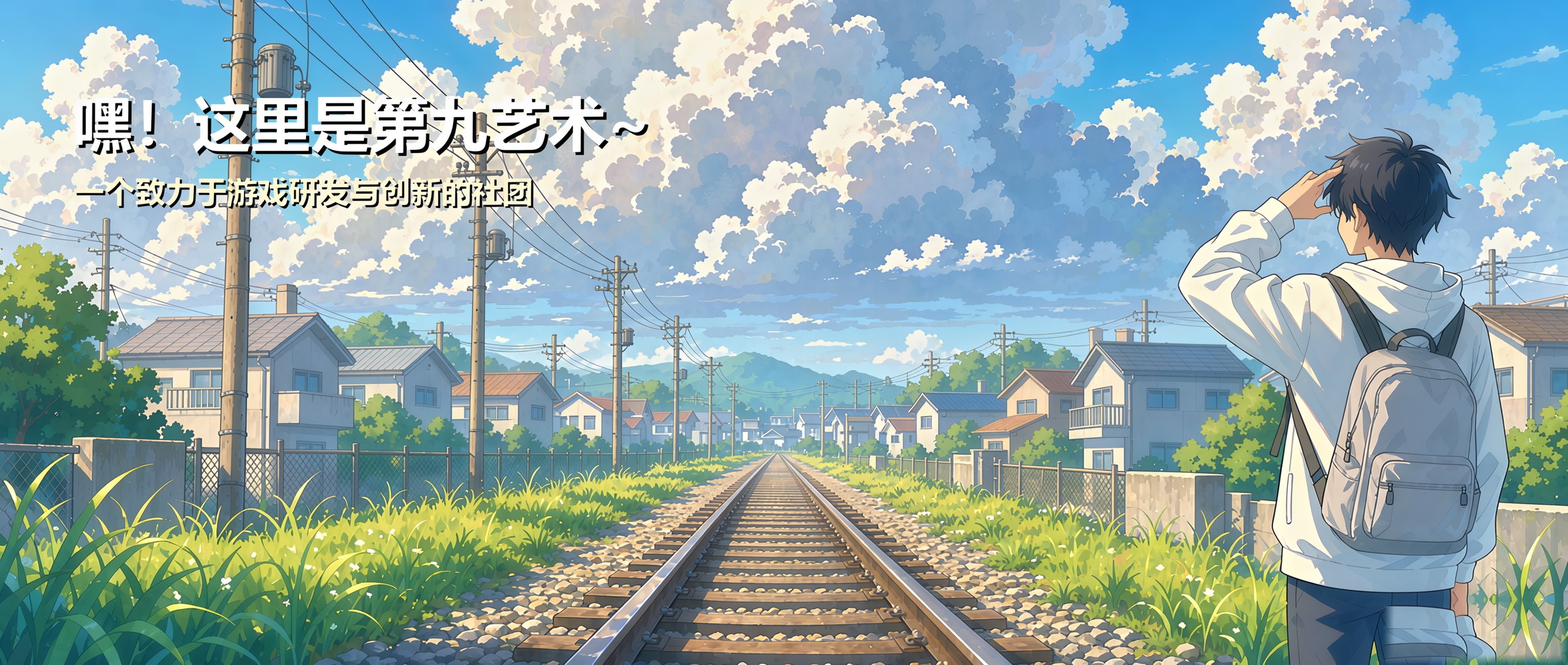
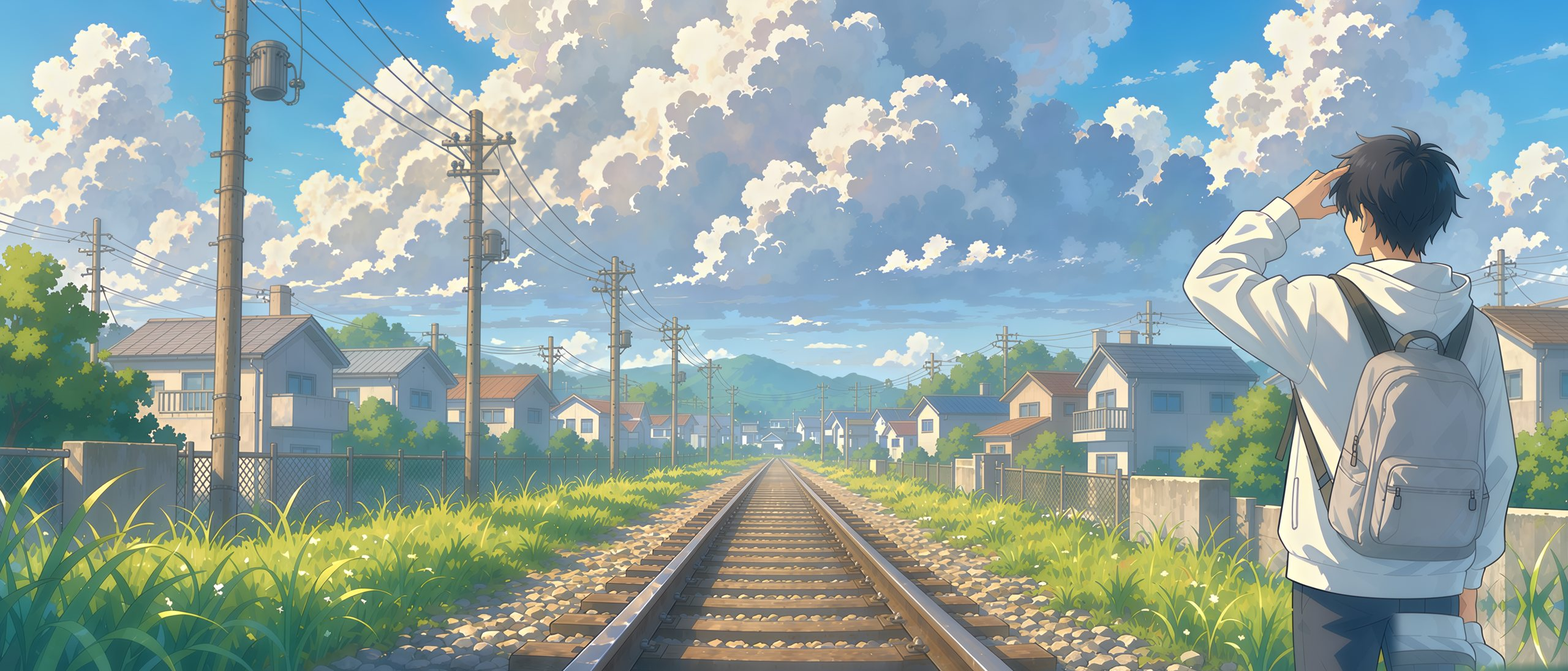
Hero copy: HTML title/sub instead of baked type, unify day/night type
- 移除覆盖文字「游戏不止于生活，而是另一种可能」
- 「嘿！这里是第九艺术~」「一个致力于游戏研发与创新的社团」改为页面渲染的覆盖文案，
  两张海报自带的文字已擦除
- 日/夜共用一套字形（粗斜体标题 + 细边框副标题），只换配色、描边、光晕与承载层
- 移动端保留标题（缩字号），补日间列表承载层与晨雾差分

diff --git a/index.html b/index.html
@@ -185,42 +185,111 @@
     position: absolute; inset: 0; width: 100%; height: 100%;
     object-fit: cover; z-index: 0;
   }
-  /* 横幅文案排版：海报本身已有标题与副标题，此处只补"四项特色 + 一句主张" */
+  /* 横幅文案：标题 / 副标题 / 四项特色全部由页面渲染（海报本身已无文字），
+     字形只有一套，日间与夜间只换配色与光晕 */
   .banner-copy { position: absolute; inset: 0; z-index: 2; pointer-events: none; }
+  .banner-copy .bc-head { position: absolute; left: 4.8%; top: 9%; max-width: 78%; }
+  .banner-copy .bc-title {
+    font-size: clamp(26px, 5.4vw, 92px);
+    font-weight: 800; font-style: italic; line-height: 1.02;
+    letter-spacing: .01em; white-space: nowrap;
+    color: #F5F8FF; -webkit-text-stroke: .9px rgba(246,250,255,.55);
+    text-shadow:
+      0 2px 2px rgba(9,18,36,.5),
+      0 6px 20px rgba(10,24,52,.55),
+      0 0 36px rgba(86,146,226,.45),
+      0 0 76px rgba(58,110,190,.28);
+  }
+  .banner-copy .bc-sub {
+    display: inline-flex; align-items: center;
+    margin-top: clamp(7px, 1.1vw, 16px);
+    padding: clamp(4px, .55vw, 8px) clamp(11px, 1.1vw, 18px);
+    border: 1px solid rgba(226,238,255,.5);
+    background: rgba(12,26,50,.22);
+    -webkit-backdrop-filter: blur(2px); backdrop-filter: blur(2px);
+    font-size: clamp(10px, 1.12vw, 17px);
+    letter-spacing: .28em; text-indent: .28em;
+    color: rgba(242,247,255,.96);
+    text-shadow: 0 1px 3px rgba(8,18,38,.85), 0 0 10px rgba(10,26,52,.6);
+  }
   .banner-copy .bc-feats {
     position: absolute; left: 4.8%; top: 40%;
-    list-style: none; margin: 0; padding: 0;
-    display: flex; flex-direction: column; gap: clamp(10px, 1.5vw, 20px);
+    list-style: none; margin: 0 0 0 -10px; padding: 16px 44px 16px 10px;
+    border-radius: 16px;
+    /* 特色列表落在中景（树、房子）上，两侧主题各给一层极淡的承载雾，保证文字有底 */
+    background: radial-gradient(120% 120% at 0% 50%,
+      rgba(6,12,22,.62) 0%, rgba(6,12,22,.30) 46%, rgba(6,12,22,0) 78%);
+    display: flex; flex-direction: column; gap: clamp(10px, 1.4vw, 20px);
   }
   .banner-copy .bc-feats li { display: flex; align-items: center; gap: 12px; }
   .banner-copy .bc-ico {
-    width: clamp(26px, 2.6vw, 36px); height: clamp(26px, 2.6vw, 36px);
+    width: clamp(26px, 2.6vw, 38px); height: clamp(26px, 2.6vw, 38px);
     border: 1.5px solid rgba(255,255,255,.8); border-radius: 8px;
     display: flex; align-items: center; justify-content: center;
     background: rgba(30,60,110,.3); flex: none;
   }
   .banner-copy .bc-feats b {
-    display: block; font-size: clamp(12px, 1.25vw, 16px); font-weight: 700; color: #fff;
+    display: block; font-size: clamp(12.5px, 1.3vw, 18px); font-weight: 700; color: #fff;
     text-shadow: 0 1px 3px rgba(15,35,75,.95), 0 0 8px rgba(15,35,75,.9), 0 0 20px rgba(15,35,75,.75);
   }
   .banner-copy .bc-feats i {
     display: block; margin-top: 2px; font-style: normal;
-    font-size: clamp(10px, .95vw, 12px); color: rgba(255,255,255,.92);
+    font-size: clamp(10.5px, 1vw, 13.5px); color: rgba(255,255,255,.9);
     text-shadow: 0 1px 3px rgba(15,35,75,.95), 0 0 8px rgba(15,35,75,.85), 0 0 18px rgba(15,35,75,.7);
   }
-  .banner-copy .bc-slogan {
-    position: absolute; left: 48%; top: 25%;
-    font-size: clamp(13px, 1.5vw, 21px); font-weight: 600; font-style: italic;
-    color: #fff; line-height: 1.55; letter-spacing: .06em;
-    text-shadow: 0 0 4px rgba(25,45,90,.95), 0 2px 8px rgba(25,45,90,.9), 0 0 20px rgba(25,45,90,.7);
+  /* —— 日间差分：亮底海报换深蓝字＋白描边光晕，边框、图标、箭头一起反色 —— */
+  body[data-theme="day"] .carousel::after {
+    background: linear-gradient(180deg, rgba(255,255,255,.06) 0%, transparent 42%, rgba(12,32,56,.18) 100%);
   }
-  @media (max-width: 900px) { .banner-copy { display: none; } }   /* 平板及以下：文案会撞上海报，只留图 */
-  /* 日间模式：海报是亮底，覆盖文案整组反色成深蓝，跟海报自带标题同一种语言 */
-  body[data-theme="day"] .banner-copy .bc-feats b { color: #12263F; text-shadow: 0 1px 2px rgba(255,255,255,.9), 0 0 10px rgba(255,255,255,.8); }
-  body[data-theme="day"] .banner-copy .bc-feats i { color: rgba(18,38,63,.86); text-shadow: 0 1px 2px rgba(255,255,255,.9), 0 0 8px rgba(255,255,255,.75); }
+  /* 日间海报的左半屏是树与房子，深蓝字直接压上去会糊；
+     给文案这一列铺一层晨雾一样的白，既是承载层，也符合白天画面的空气感 */
+  body[data-theme="day"] .banner-copy::before {
+    content: ""; position: absolute; inset: 0;
+    background: linear-gradient(100deg,
+      rgba(255,255,255,.52) 0%, rgba(255,255,255,.34) 18%,
+      rgba(255,255,255,.15) 33%, rgba(255,255,255,0) 46%);
+    /* 雾只压在文案所在的上半屏，草地与铁轨保持通透 */
+    -webkit-mask-image: linear-gradient(180deg, #000 0%, #000 56%, rgba(0,0,0,.32) 82%, transparent 96%);
+    mask-image: linear-gradient(180deg, #000 0%, #000 56%, rgba(0,0,0,.32) 82%, transparent 96%);
+  }
+  body[data-theme="day"] .banner-copy .bc-title {
+    color: #0E2138; -webkit-text-stroke: 1px rgba(255,255,255,.72);
+    text-shadow:
+      0 1px 0 rgba(255,255,255,.92),
+      0 2px 10px rgba(255,255,255,.9),
+      0 0 30px rgba(255,255,255,.8),
+      0 0 64px rgba(255,255,255,.55);
+  }
+  body[data-theme="day"] .banner-copy .bc-sub {
+    border-color: rgba(18,38,63,.45); background: rgba(255,255,255,.5); color: #0E2138;
+    text-shadow: 0 1px 2px rgba(255,255,255,.9);
+  }
+  body[data-theme="day"] .banner-copy .bc-feats {
+    background: radial-gradient(140% 125% at 0% 50%,
+      rgba(250,252,255,.94) 0%, rgba(250,252,255,.72) 42%, rgba(250,252,255,.24) 66%,
+      rgba(250,252,255,0) 84%);
+  }
+  body[data-theme="day"] .banner-copy .bc-feats b { color: #12263F; text-shadow: 0 1px 2px rgba(255,255,255,.95), 0 0 10px rgba(255,255,255,.85); }
+  body[data-theme="day"] .banner-copy .bc-feats i { color: rgba(18,38,63,.88); text-shadow: 0 1px 2px rgba(255,255,255,.9), 0 0 8px rgba(255,255,255,.8); }
   body[data-theme="day"] .banner-copy .bc-ico { border-color: rgba(18,38,63,.72); background: rgba(255,255,255,.62); }
   body[data-theme="day"] .banner-copy .bc-ico svg { stroke: #12263F; }
-  body[data-theme="day"] .banner-copy .bc-slogan { color: #12263F; text-shadow: 0 1px 2px rgba(255,255,255,.9), 0 0 12px rgba(255,255,255,.7); }
+  body[data-theme="day"] .carousel-arrow { background: rgba(255,255,255,.62); color: #12263F; }
+  body[data-theme="day"] .carousel-arrow:hover { background: rgba(255,255,255,.88); }
+  body[data-theme="day"] .carousel-dot { background: rgba(18,38,63,.3); }
+  body[data-theme="day"] .carousel-dot.active { background: #185FA5; }
+  /* 平板及以下：文案整组缩小保留（海报已无自带文字，标题不能跟着消失） */
+  @media (max-width: 900px) {
+    .banner-copy .bc-head { left: 5%; top: 9%; max-width: 92%; }
+    .banner-copy .bc-title { font-size: clamp(22px, 6vw, 40px); }
+    .banner-copy .bc-sub { font-size: clamp(10px, 2.3vw, 13px); letter-spacing: .18em; text-indent: .18em; margin-top: 7px; }
+    .banner-copy .bc-feats { display: none; }
+    /* 手机/平板上标题就压在天空里，不需要额外铺雾，保住插画的通透 */
+    body[data-theme="day"] .banner-copy::before { display: none; }
+  }
+  @media (max-width: 480px) {
+    .banner-copy .bc-head { top: 10%; }
+    .banner-copy .bc-sub { padding: 3px 9px; font-size: 10px; letter-spacing: .12em; text-indent: .12em; }
+  }
   .carousel-arrow {
     position: absolute; top: 50%; transform: translateY(-50%); z-index: 5;
     width: 34px; height: 58px; background: rgba(0,0,0,0.35); color: #F7F5F0;
@@ -748,13 +817,16 @@
       <div class="carousel-slide" id="carousel-slide">
         <img class="carousel-bg" id="carousel-bg" alt="">
         <div class="banner-copy">
+          <div class="bc-head">
+            <h1 class="bc-title">嘿！这里是第九艺术~</h1>
+            <p class="bc-sub">一个致力于游戏研发与创新的社团</p>
+          </div>
           <ul class="bc-feats">
             <li><span class="bc-ico"><svg width="60%" height="60%" viewBox="0 0 24 24" fill="none" stroke="#fff" stroke-width="1.8" stroke-linecap="round" stroke-linejoin="round"><path d="M14.7 6.3a4.5 4.5 0 0 0-6 5.7L3 17.7 6.3 21l5.7-5.7a4.5 4.5 0 0 0 5.7-6l-2.6 2.6-2.7-2.7 2.6-2.9z"/></svg></span><span><b>独立游戏开发</b><i>从想法到实现</i></span></li>
             <li><span class="bc-ico"><svg width="60%" height="60%" viewBox="0 0 24 24" fill="none" stroke="#fff" stroke-width="1.8" stroke-linecap="round" stroke-linejoin="round"><rect x="2" y="7" width="20" height="10" rx="5"/><path d="M6 12h4M8 10v4"/><circle cx="16" cy="11" r="0.6" fill="#fff"/><circle cx="18.5" cy="13" r="0.6" fill="#fff"/></svg></span><span><b>原创作品</b><i>用游戏表达世界</i></span></li>
             <li><span class="bc-ico"><svg width="60%" height="60%" viewBox="0 0 24 24" fill="none" stroke="#fff" stroke-width="1.8" stroke-linecap="round" stroke-linejoin="round"><polyline points="8 6 3 12 8 18"/><polyline points="16 6 21 12 16 18"/></svg></span><span><b>技术探索</b><i>热爱 · 学习 · 分享</i></span></li>
             <li><span class="bc-ico"><svg width="60%" height="60%" viewBox="0 0 24 24" fill="none" stroke="#fff" stroke-width="1.8" stroke-linecap="round" stroke-linejoin="round"><circle cx="9" cy="8" r="3.2"/><path d="M3 20c0-3.3 2.7-6 6-6s6 2.7 6 6"/><path d="M16.2 5.2a3.2 3.2 0 0 1 0 5.6"/><path d="M21 20c0-2.6-1.6-4.7-3.9-5.5"/></svg></span><span><b>热爱共创</b><i>一起做有趣的事</i></span></li>
           </ul>
-          <div class="bc-slogan">游戏不止于生活<br>而是另一种可能</div>
         </div>
       </div>
     </div>

diff --git a/public/index.html b/public/index.html
@@ -185,42 +185,111 @@
     position: absolute; inset: 0; width: 100%; height: 100%;
     object-fit: cover; z-index: 0;
   }
-  /* 横幅文案排版：海报本身已有标题与副标题，此处只补"四项特色 + 一句主张" */
+  /* 横幅文案：标题 / 副标题 / 四项特色全部由页面渲染（海报本身已无文字），
+     字形只有一套，日间与夜间只换配色与光晕 */
   .banner-copy { position: absolute; inset: 0; z-index: 2; pointer-events: none; }
+  .banner-copy .bc-head { position: absolute; left: 4.8%; top: 9%; max-width: 78%; }
+  .banner-copy .bc-title {
+    font-size: clamp(26px, 5.4vw, 92px);
+    font-weight: 800; font-style: italic; line-height: 1.02;
+    letter-spacing: .01em; white-space: nowrap;
+    color: #F5F8FF; -webkit-text-stroke: .9px rgba(246,250,255,.55);
+    text-shadow:
+      0 2px 2px rgba(9,18,36,.5),
+      0 6px 20px rgba(10,24,52,.55),
+      0 0 36px rgba(86,146,226,.45),
+      0 0 76px rgba(58,110,190,.28);
+  }
+  .banner-copy .bc-sub {
+    display: inline-flex; align-items: center;
+    margin-top: clamp(7px, 1.1vw, 16px);
+    padding: clamp(4px, .55vw, 8px) clamp(11px, 1.1vw, 18px);
+    border: 1px solid rgba(226,238,255,.5);
+    background: rgba(12,26,50,.22);
+    -webkit-backdrop-filter: blur(2px); backdrop-filter: blur(2px);
+    font-size: clamp(10px, 1.12vw, 17px);
+    letter-spacing: .28em; text-indent: .28em;
+    color: rgba(242,247,255,.96);
+    text-shadow: 0 1px 3px rgba(8,18,38,.85), 0 0 10px rgba(10,26,52,.6);
+  }
   .banner-copy .bc-feats {
     position: absolute; left: 4.8%; top: 40%;
-    list-style: none; margin: 0; padding: 0;
-    display: flex; flex-direction: column; gap: clamp(10px, 1.5vw, 20px);
+    list-style: none; margin: 0 0 0 -10px; padding: 16px 44px 16px 10px;
+    border-radius: 16px;
+    /* 特色列表落在中景（树、房子）上，两侧主题各给一层极淡的承载雾，保证文字有底 */
+    background: radial-gradient(120% 120% at 0% 50%,
+      rgba(6,12,22,.62) 0%, rgba(6,12,22,.30) 46%, rgba(6,12,22,0) 78%);
+    display: flex; flex-direction: column; gap: clamp(10px, 1.4vw, 20px);
   }
   .banner-copy .bc-feats li { display: flex; align-items: center; gap: 12px; }
   .banner-copy .bc-ico {
-    width: clamp(26px, 2.6vw, 36px); height: clamp(26px, 2.6vw, 36px);
+    width: clamp(26px, 2.6vw, 38px); height: clamp(26px, 2.6vw, 38px);
     border: 1.5px solid rgba(255,255,255,.8); border-radius: 8px;
     display: flex; align-items: center; justify-content: center;
     background: rgba(30,60,110,.3); flex: none;
   }
   .banner-copy .bc-feats b {
-    display: block; font-size: clamp(12px, 1.25vw, 16px); font-weight: 700; color: #fff;
+    display: block; font-size: clamp(12.5px, 1.3vw, 18px); font-weight: 700; color: #fff;
     text-shadow: 0 1px 3px rgba(15,35,75,.95), 0 0 8px rgba(15,35,75,.9), 0 0 20px rgba(15,35,75,.75);
   }
   .banner-copy .bc-feats i {
     display: block; margin-top: 2px; font-style: normal;
-    font-size: clamp(10px, .95vw, 12px); color: rgba(255,255,255,.92);
+    font-size: clamp(10.5px, 1vw, 13.5px); color: rgba(255,255,255,.9);
     text-shadow: 0 1px 3px rgba(15,35,75,.95), 0 0 8px rgba(15,35,75,.85), 0 0 18px rgba(15,35,75,.7);
   }
-  .banner-copy .bc-slogan {
-    position: absolute; left: 48%; top: 25%;
-    font-size: clamp(13px, 1.5vw, 21px); font-weight: 600; font-style: italic;
-    color: #fff; line-height: 1.55; letter-spacing: .06em;
-    text-shadow: 0 0 4px rgba(25,45,90,.95), 0 2px 8px rgba(25,45,90,.9), 0 0 20px rgba(25,45,90,.7);
+  /* —— 日间差分：亮底海报换深蓝字＋白描边光晕，边框、图标、箭头一起反色 —— */
+  body[data-theme="day"] .carousel::after {
+    background: linear-gradient(180deg, rgba(255,255,255,.06) 0%, transparent 42%, rgba(12,32,56,.18) 100%);
   }
-  @media (max-width: 900px) { .banner-copy { display: none; } }   /* 平板及以下：文案会撞上海报，只留图 */
-  /* 日间模式：海报是亮底，覆盖文案整组反色成深蓝，跟海报自带标题同一种语言 */
-  body[data-theme="day"] .banner-copy .bc-feats b { color: #12263F; text-shadow: 0 1px 2px rgba(255,255,255,.9), 0 0 10px rgba(255,255,255,.8); }
-  body[data-theme="day"] .banner-copy .bc-feats i { color: rgba(18,38,63,.86); text-shadow: 0 1px 2px rgba(255,255,255,.9), 0 0 8px rgba(255,255,255,.75); }
+  /* 日间海报的左半屏是树与房子，深蓝字直接压上去会糊；
+     给文案这一列铺一层晨雾一样的白，既是承载层，也符合白天画面的空气感 */
+  body[data-theme="day"] .banner-copy::before {
+    content: ""; position: absolute; inset: 0;
+    background: linear-gradient(100deg,
+      rgba(255,255,255,.52) 0%, rgba(255,255,255,.34) 18%,
+      rgba(255,255,255,.15) 33%, rgba(255,255,255,0) 46%);
+    /* 雾只压在文案所在的上半屏，草地与铁轨保持通透 */
+    -webkit-mask-image: linear-gradient(180deg, #000 0%, #000 56%, rgba(0,0,0,.32) 82%, transparent 96%);
+    mask-image: linear-gradient(180deg, #000 0%, #000 56%, rgba(0,0,0,.32) 82%, transparent 96%);
+  }
+  body[data-theme="day"] .banner-copy .bc-title {
+    color: #0E2138; -webkit-text-stroke: 1px rgba(255,255,255,.72);
+    text-shadow:
+      0 1px 0 rgba(255,255,255,.92),
+      0 2px 10px rgba(255,255,255,.9),
+      0 0 30px rgba(255,255,255,.8),
+      0 0 64px rgba(255,255,255,.55);
+  }
+  body[data-theme="day"] .banner-copy .bc-sub {
+    border-color: rgba(18,38,63,.45); background: rgba(255,255,255,.5); color: #0E2138;
+    text-shadow: 0 1px 2px rgba(255,255,255,.9);
+  }
+  body[data-theme="day"] .banner-copy .bc-feats {
+    background: radial-gradient(140% 125% at 0% 50%,
+      rgba(250,252,255,.94) 0%, rgba(250,252,255,.72) 42%, rgba(250,252,255,.24) 66%,
+      rgba(250,252,255,0) 84%);
+  }
+  body[data-theme="day"] .banner-copy .bc-feats b { color: #12263F; text-shadow: 0 1px 2px rgba(255,255,255,.95), 0 0 10px rgba(255,255,255,.85); }
+  body[data-theme="day"] .banner-copy .bc-feats i { color: rgba(18,38,63,.88); text-shadow: 0 1px 2px rgba(255,255,255,.9), 0 0 8px rgba(255,255,255,.8); }
   body[data-theme="day"] .banner-copy .bc-ico { border-color: rgba(18,38,63,.72); background: rgba(255,255,255,.62); }
   body[data-theme="day"] .banner-copy .bc-ico svg { stroke: #12263F; }
-  body[data-theme="day"] .banner-copy .bc-slogan { color: #12263F; text-shadow: 0 1px 2px rgba(255,255,255,.9), 0 0 12px rgba(255,255,255,.7); }
+  body[data-theme="day"] .carousel-arrow { background: rgba(255,255,255,.62); color: #12263F; }
+  body[data-theme="day"] .carousel-arrow:hover { background: rgba(255,255,255,.88); }
+  body[data-theme="day"] .carousel-dot { background: rgba(18,38,63,.3); }
+  body[data-theme="day"] .carousel-dot.active { background: #185FA5; }
+  /* 平板及以下：文案整组缩小保留（海报已无自带文字，标题不能跟着消失） */
+  @media (max-width: 900px) {
+    .banner-copy .bc-head { left: 5%; top: 9%; max-width: 92%; }
+    .banner-copy .bc-title { font-size: clamp(22px, 6vw, 40px); }
+    .banner-copy .bc-sub { font-size: clamp(10px, 2.3vw, 13px); letter-spacing: .18em; text-indent: .18em; margin-top: 7px; }
+    .banner-copy .bc-feats { display: none; }
+    /* 手机/平板上标题就压在天空里，不需要额外铺雾，保住插画的通透 */
+    body[data-theme="day"] .banner-copy::before { display: none; }
+  }
+  @media (max-width: 480px) {
+    .banner-copy .bc-head { top: 10%; }
+    .banner-copy .bc-sub { padding: 3px 9px; font-size: 10px; letter-spacing: .12em; text-indent: .12em; }
+  }
   .carousel-arrow {
     position: absolute; top: 50%; transform: translateY(-50%); z-index: 5;
     width: 34px; height: 58px; background: rgba(0,0,0,0.35); color: #F7F5F0;
@@ -748,13 +817,16 @@
       <div class="carousel-slide" id="carousel-slide">
         <img class="carousel-bg" id="carousel-bg" alt="">
         <div class="banner-copy">
+          <div class="bc-head">
+            <h1 class="bc-title">嘿！这里是第九艺术~</h1>
+            <p class="bc-sub">一个致力于游戏研发与创新的社团</p>
+          </div>
           <ul class="bc-feats">
             <li><span class="bc-ico"><svg width="60%" height="60%" viewBox="0 0 24 24" fill="none" stroke="#fff" stroke-width="1.8" stroke-linecap="round" stroke-linejoin="round"><path d="M14.7 6.3a4.5 4.5 0 0 0-6 5.7L3 17.7 6.3 21l5.7-5.7a4.5 4.5 0 0 0 5.7-6l-2.6 2.6-2.7-2.7 2.6-2.9z"/></svg></span><span><b>独立游戏开发</b><i>从想法到实现</i></span></li>
             <li><span class="bc-ico"><svg width="60%" height="60%" viewBox="0 0 24 24" fill="none" stroke="#fff" stroke-width="1.8" stroke-linecap="round" stroke-linejoin="round"><rect x="2" y="7" width="20" height="10" rx="5"/><path d="M6 12h4M8 10v4"/><circle cx="16" cy="11" r="0.6" fill="#fff"/><circle cx="18.5" cy="13" r="0.6" fill="#fff"/></svg></span><span><b>原创作品</b><i>用游戏表达世界</i></span></li>
             <li><span class="bc-ico"><svg width="60%" height="60%" viewBox="0 0 24 24" fill="none" stroke="#fff" stroke-width="1.8" stroke-linecap="round" stroke-linejoin="round"><polyline points="8 6 3 12 8 18"/><polyline points="16 6 21 12 16 18"/></svg></span><span><b>技术探索</b><i>热爱 · 学习 · 分享</i></span></li>
             <li><span class="bc-ico"><svg width="60%" height="60%" viewBox="0 0 24 24" fill="none" stroke="#fff" stroke-width="1.8" stroke-linecap="round" stroke-linejoin="round"><circle cx="9" cy="8" r="3.2"/><path d="M3 20c0-3.3 2.7-6 6-6s6 2.7 6 6"/><path d="M16.2 5.2a3.2 3.2 0 0 1 0 5.6"/><path d="M21 20c0-2.6-1.6-4.7-3.9-5.5"/></svg></span><span><b>热爱共创</b><i>一起做有趣的事</i></span></li>
           </ul>
-          <div class="bc-slogan">游戏不止于生活<br>而是另一种可能</div>
         </div>
       </div>
     </div>
